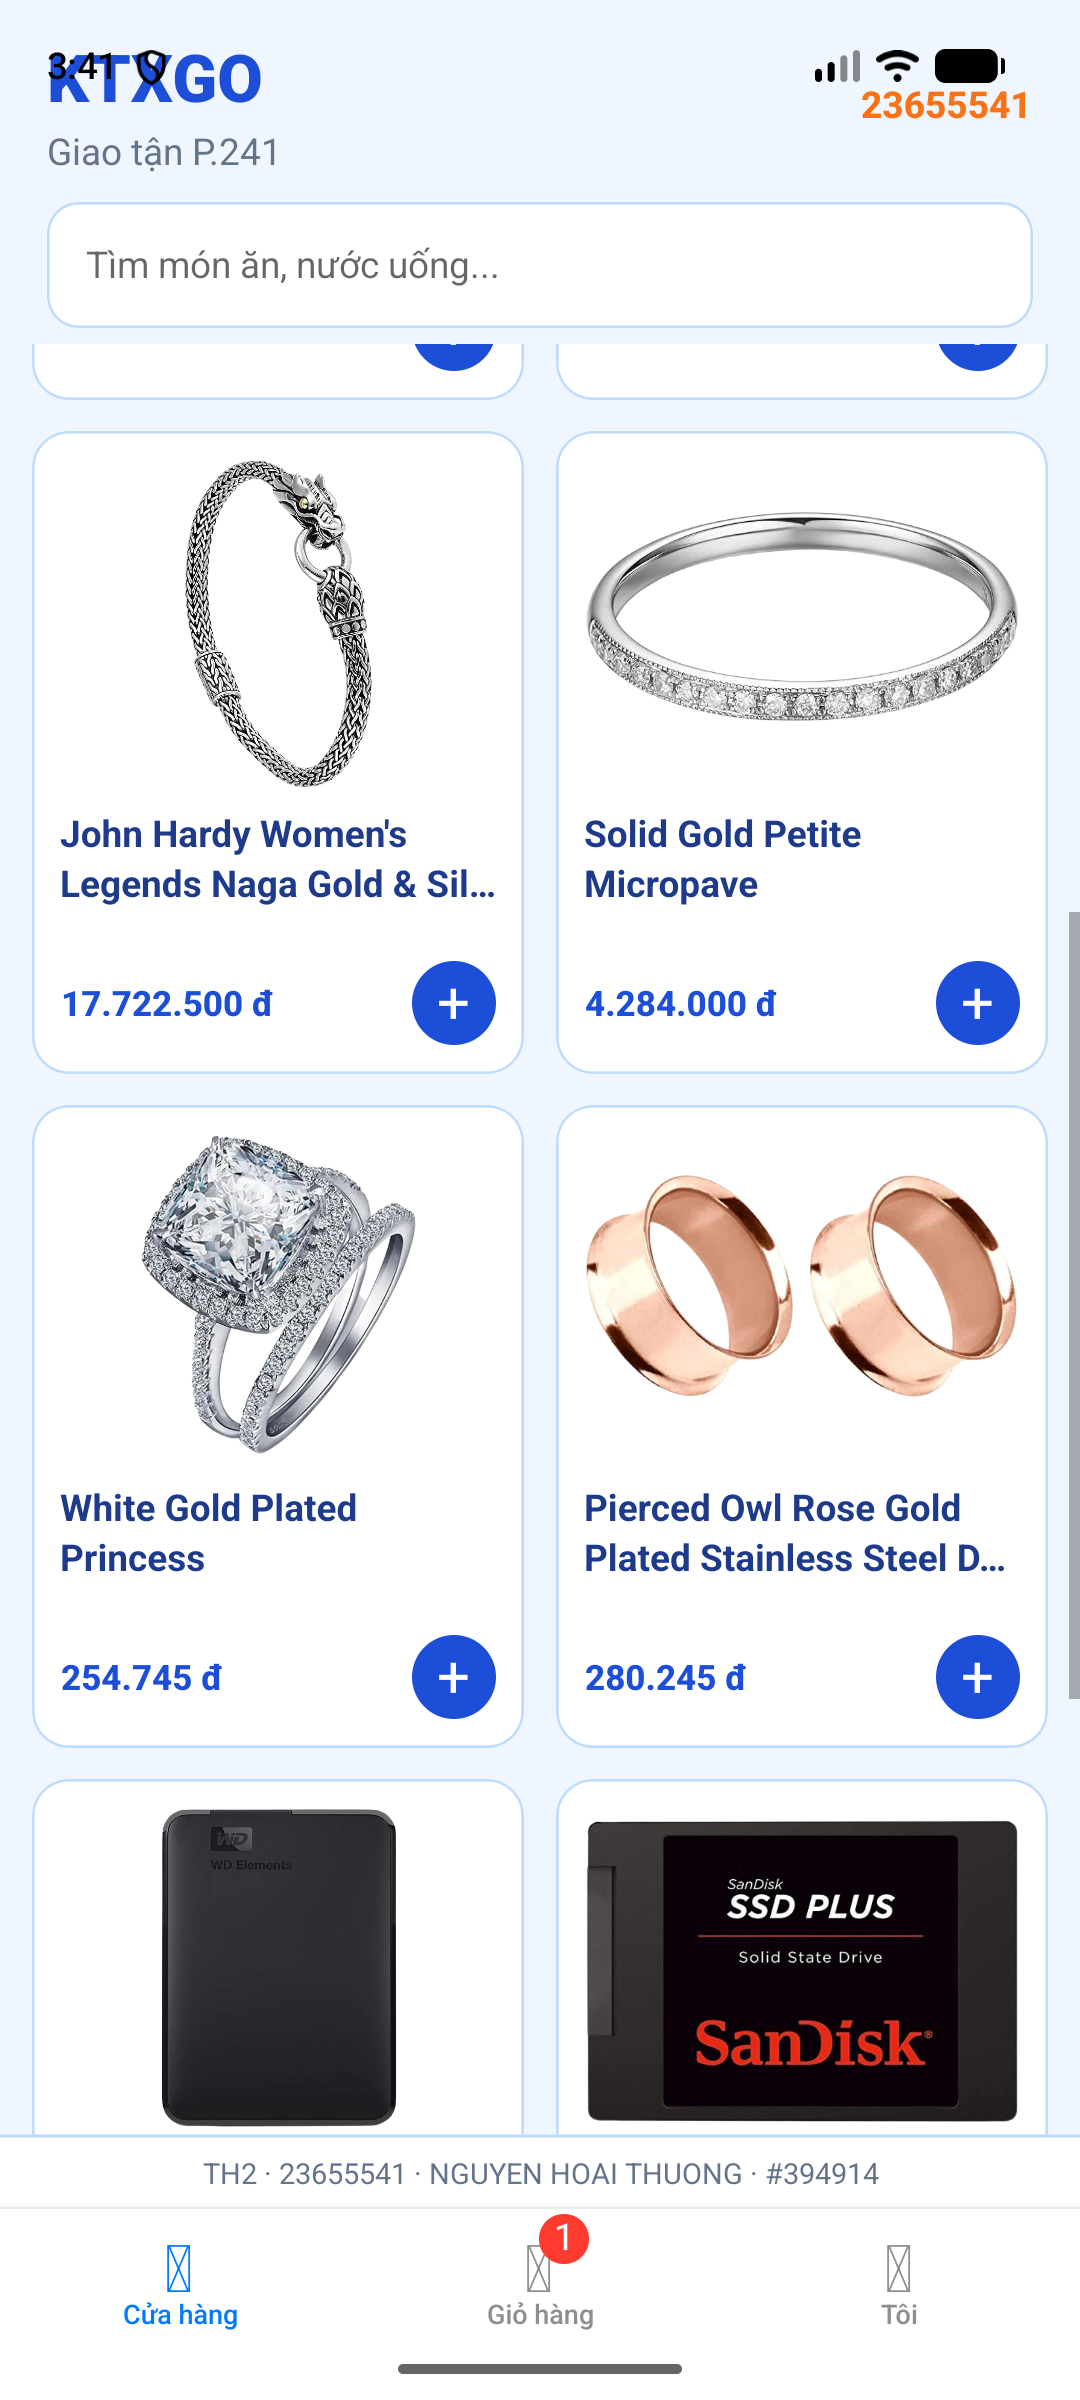
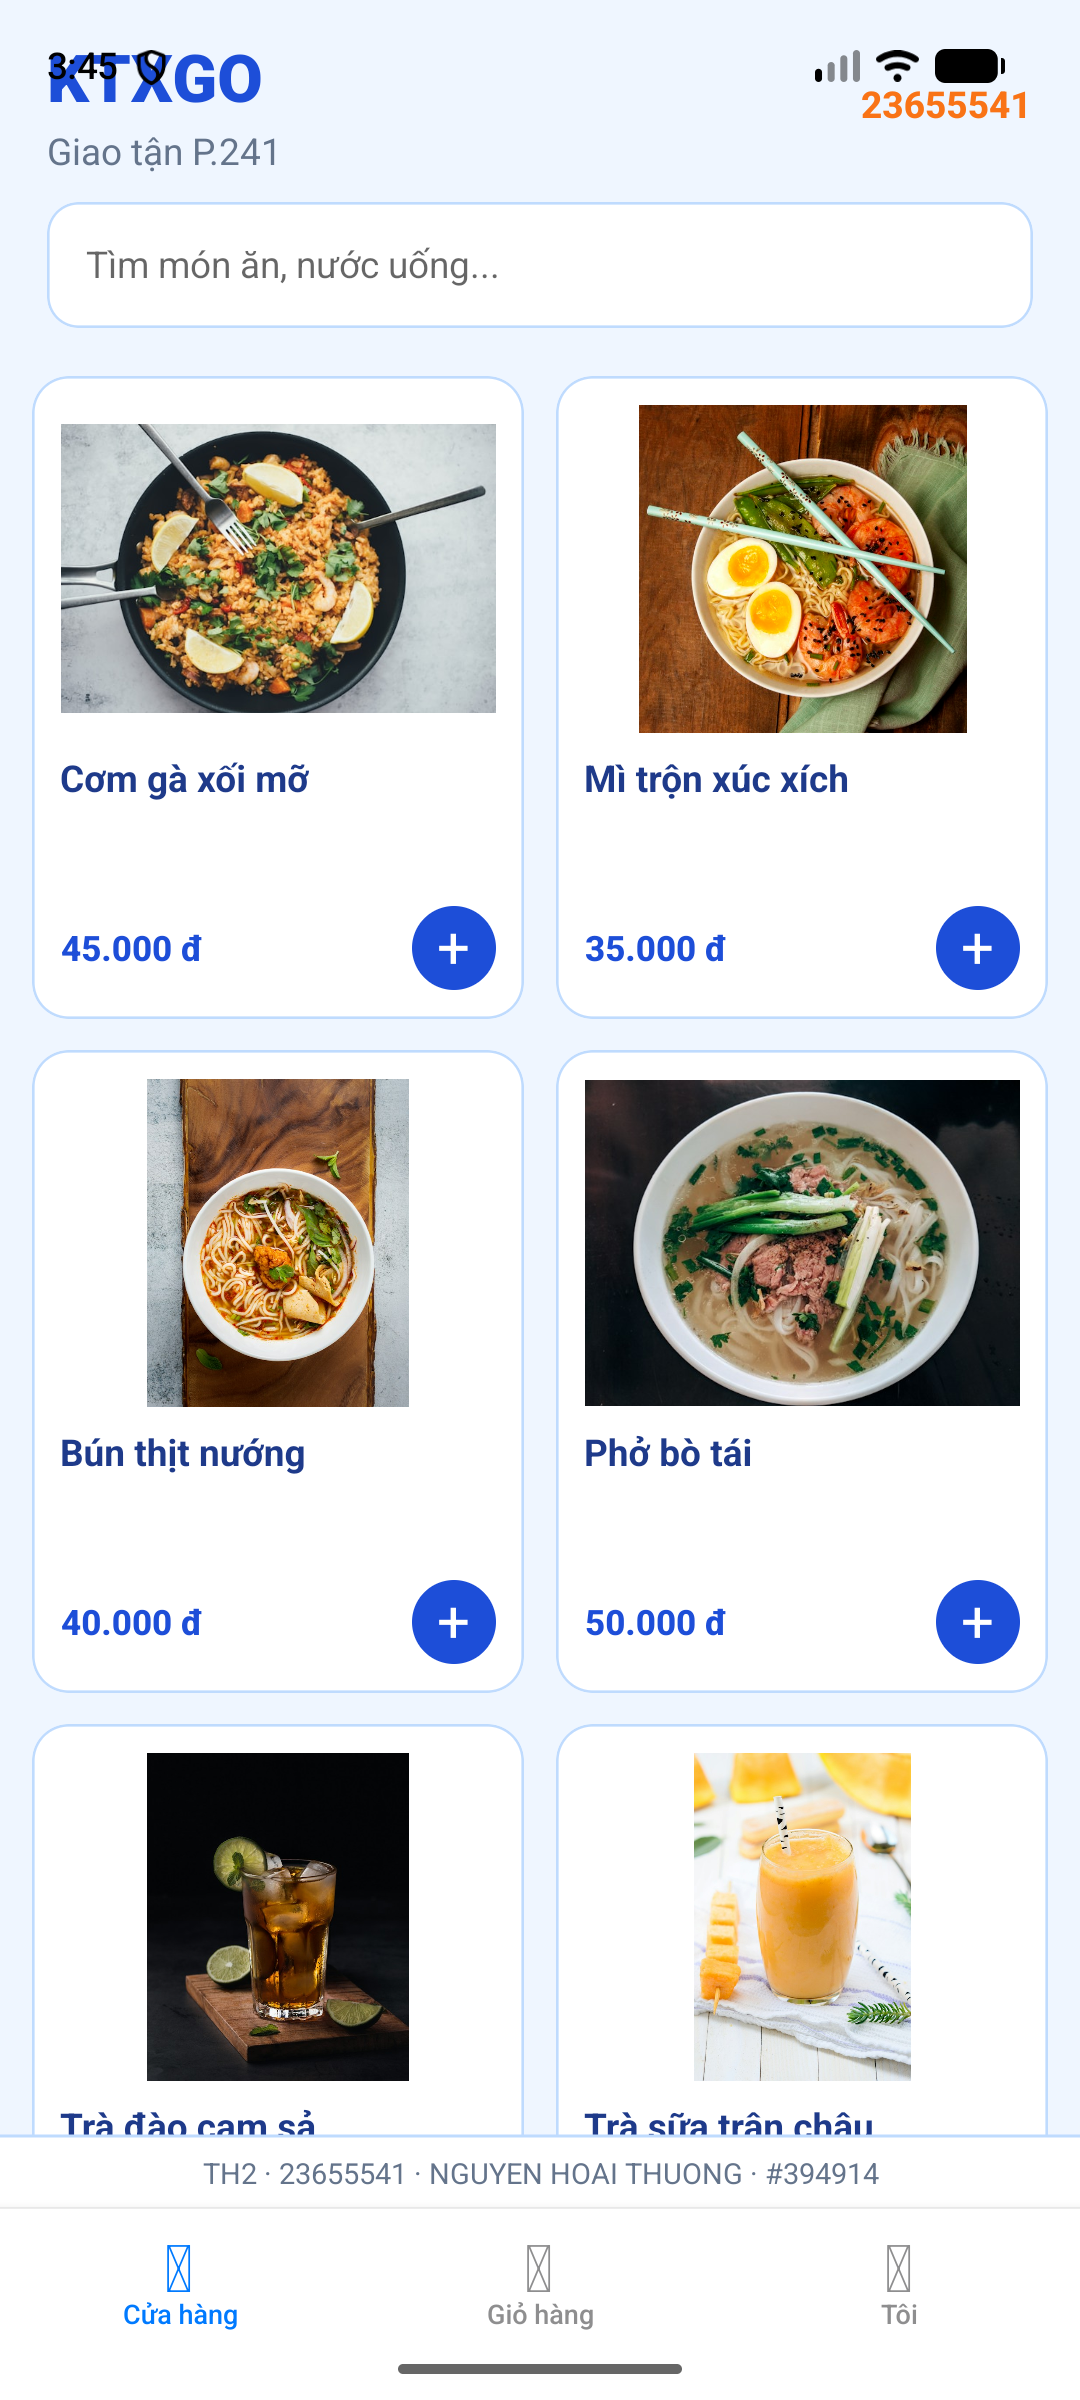
Fix food catalog and screenshots

diff --git a/src/services/productApi.ts b/src/services/productApi.ts
@@ -1,5 +1,3 @@
-import { apiClient } from './apiClient';
-
 export type Product = {
   id: number;
   title: string;
@@ -10,6 +8,70 @@ export type Product = {
 };
 
 export async function fetchProducts(): Promise<Product[]> {
-  const response = await apiClient.get<Product[]>('/products?limit=12');
-  return response.data;
+  return [
+    {
+      id: 1,
+      title: 'Cơm gà xối mỡ',
+      price: 45000,
+      description: 'Cơm nóng ăn kèm gà chiên giòn, dưa leo và nước mắm.',
+      category: 'Cơm',
+      image: 'https://images.unsplash.com/photo-1512058564366-18510be2db19?w=600',
+    },
+    {
+      id: 2,
+      title: 'Mì trộn xúc xích',
+      price: 35000,
+      description: 'Mì trộn sốt cay nhẹ cùng xúc xích, trứng và rau xanh.',
+      category: 'Mì',
+      image: 'https://images.unsplash.com/photo-1569718212165-3a8278d5f624?w=600',
+    },
+    {
+      id: 3,
+      title: 'Bún thịt nướng',
+      price: 40000,
+      description: 'Bún tươi, thịt nướng thơm, rau sống và nước mắm chua ngọt.',
+      category: 'Bún',
+      image: 'https://images.unsplash.com/photo-1555126634-323283e090fa?w=600',
+    },
+    {
+      id: 4,
+      title: 'Phở bò tái',
+      price: 50000,
+      description: 'Phở bò nước dùng đậm đà, thịt bò tái và rau thơm.',
+      category: 'Phở',
+      image: 'https://images.unsplash.com/photo-1582878826629-29b7ad1cdc43?w=600',
+    },
+    {
+      id: 5,
+      title: 'Trà đào cam sả',
+      price: 25000,
+      description: 'Trà đào mát lạnh, thơm vị cam sả, phù hợp dùng cùng bữa ăn.',
+      category: 'Nước uống',
+      image: 'https://images.unsplash.com/photo-1556679343-c7306c1976bc?w=600',
+    },
+    {
+      id: 6,
+      title: 'Trà sữa trân châu',
+      price: 30000,
+      description: 'Trà sữa béo nhẹ với trân châu dai mềm.',
+      category: 'Nước uống',
+      image: 'https://images.unsplash.com/photo-1525385133512-2f3bdd039054?w=600',
+    },
+    {
+      id: 7,
+      title: 'Khoai tây chiên',
+      price: 25000,
+      description: 'Khoai tây chiên giòn, dùng kèm tương ớt hoặc tương cà.',
+      category: 'Ăn vặt',
+      image: 'https://images.unsplash.com/photo-1573080496219-bb080dd4f877?w=600',
+    },
+    {
+      id: 8,
+      title: 'Bánh mì thịt nướng',
+      price: 30000,
+      description: 'Bánh mì giòn, thịt nướng, đồ chua và rau thơm.',
+      category: 'Bánh mì',
+      image: 'https://images.unsplash.com/photo-1601050690597-df0568f70950?w=600',
+    },
+  ];
 }

diff --git a/src/stores/cartStore.ts b/src/stores/cartStore.ts
@@ -1,7 +1,7 @@
 import AsyncStorage from '@react-native-async-storage/async-storage';
 import { create } from 'zustand';
 import { createJSONStorage, persist } from 'zustand/middleware';
-import { PRICE_MULTIPLIER, STUDENT } from '@constants/student';
+import { STUDENT } from '@constants/student';
 import type { Product } from '@services/productApi';
 
 export type CartItem = Product & { quantity: number };
@@ -29,7 +29,7 @@ export const useCartStore = create<CartState>()(
       remove: id => set(state => ({ items: state.items.filter(item => item.id !== id) })),
       changeQty: (id, quantity) => set(state => ({ items: quantity > 0 ? state.items.map(item => item.id === id ? { ...item, quantity } : item) : state.items.filter(item => item.id !== id) })),
       totalQuantity: () => get().items.reduce((total, item) => total + item.quantity, 0),
-      totalAmount: () => get().items.reduce((total, item) => total + Math.round(item.price * PRICE_MULTIPLIER) * item.quantity, 0),
+      totalAmount: () => get().items.reduce((total, item) => total + item.price * item.quantity, 0),
     }),
     {
       name: `ktxgo-cart-${STUDENT.mssv}`,

diff --git a/src/screens/DetailScreen.tsx b/src/screens/DetailScreen.tsx
@@ -10,7 +10,7 @@ import {
 import { useQuery } from '@tanstack/react-query';
 import { fetchProducts } from '@services/productApi';
 import { useCartStore } from '@stores/cartStore';
-import { PRICE_MULTIPLIER, STUDENT, VARIANT } from '@constants/student';
+import { STUDENT, VARIANT } from '@constants/student';
 import { theme } from '@constants/theme';
 import type { NativeStackScreenProps } from '@react-navigation/native-stack';
 import type { ShopStackParamList } from '@navigation/ShopStack';
@@ -34,7 +34,7 @@ export function DetailScreen({ route }: Props) {
       <Text style={styles.category}>{product.category}</Text>
       <Text style={styles.title}>{product.title}</Text>
       <Text style={styles.price}>
-        {Math.round(product.price * PRICE_MULTIPLIER).toLocaleString('vi-VN')} đ
+        {product.price.toLocaleString('vi-VN')} đ
       </Text>
       <Text style={styles.description}>{product.description}</Text>
       <Pressable onPress={addToCart} style={styles.button}>

diff --git a/src/components/ProductCard.tsx b/src/components/ProductCard.tsx
@@ -1,13 +1,12 @@
 import React from 'react';
 import { Image, Pressable, StyleSheet, Text, View } from 'react-native';
 import type { Product } from '@services/productApi';
-import { PRICE_MULTIPLIER } from '@constants/student';
 import { theme } from '@constants/theme';
 
 type Props = { product: Product; onPress: () => void; onAdd: () => void };
 
 export function ProductCard({ product, onPress, onAdd }: Props) {
-  const price = Math.round(product.price * PRICE_MULTIPLIER);
+  const price = product.price;
   return (
     <Pressable onPress={onPress} style={styles.card}>
       <Image source={{ uri: product.image }} style={styles.image} />

diff --git a/src/screens/HomeScreen.tsx b/src/screens/HomeScreen.tsx
@@ -104,7 +104,7 @@ export function HomeScreen({ navigation }: Props) {
           }
           contentContainerStyle={styles.list}
         />
-      )}{' '}
+      )}
       {!VARIANT.watermarkAtTop && <Watermark />}
     </SafeAreaView>
   );
